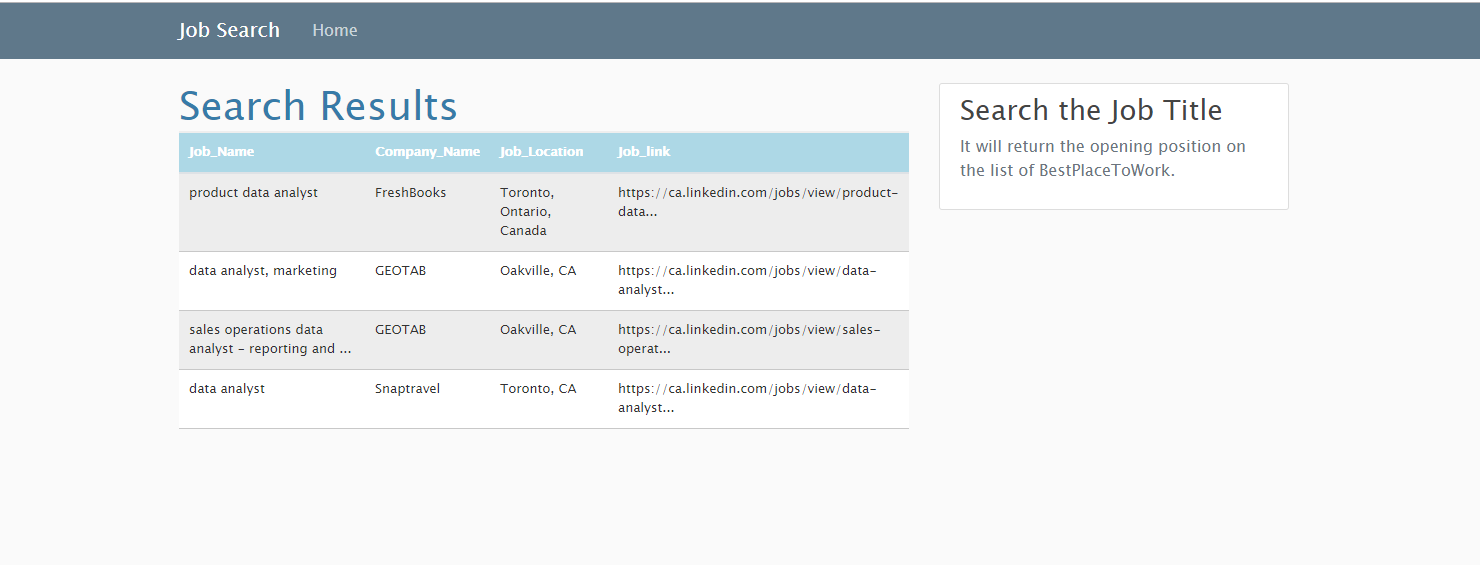
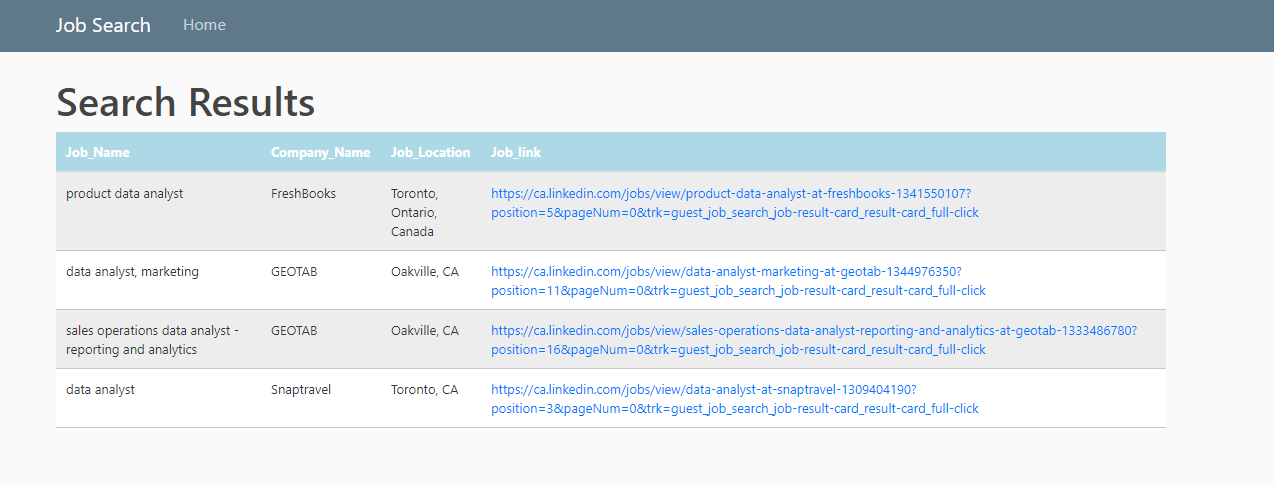
revised css file, html for each page, enable full display of link and hyperlink

diff --git a/web_scraping/templates/simple.html b/web_scraping/templates/simple.html
@@ -32,26 +32,8 @@
       </nav>
     </header>
     <main role="main" class="container">
-      <div class="row">
-        <div class="col-md-8">
-          {% block content %}{% endblock %}
-        </div>
-        <div class="col-md-4">
-          <div class="content-section">
-            <h3>Search the Job Title</h3>
-            <p class='text-muted'>It will return the opening position on the list of BestPlaceToWork.
-              <!--<ul class="list-group">-->
-                <!--<li class="list-group-item list-group-item-light">Latest Posts</li>-->
-                <!--<li class="list-group-item list-group-item-light">Announcements</li>-->
-                <!--<li class="list-group-item list-group-item-light">Calendars</li>-->
-                <!--<li class="list-group-item list-group-item-light">etc</li>-->
-              <!--</ul>-->
-            </p>
-          </div>
-        </div>
-      </div>
+      {% block content %}{% endblock %}
     </main>
-
     <script src="https://code.jquery.com/jquery-3.2.1.slim.min.js" integrity="sha384-KJ3o2DKtIkvYIK3UENzmM7KCkRr/rE9/Qpg6aAZGJwFDMVNA/GpGFF93hXpG5KkN" crossorigin="anonymous"></script>
     <script src="https://cdnjs.cloudflare.com/ajax/libs/popper.js/1.12.9/umd/popper.min.js" integrity="sha384-ApNbgh9B+Y1QKtv3Rn7W3mgPxhU9K/ScQsAP7hUibX39j7fakFPskvXusvfa0b4Q" crossorigin="anonymous"></script>
     <script src="https://maxcdn.bootstrapcdn.com/bootstrap/4.0.0/js/bootstrap.min.js" integrity="sha384-JZR6Spejh4U02d8jOt6vLEHfe/JQGiRRSQQxSfFWpi1MquVdAyjUar5+76PVCmYl" crossorigin="anonymous"></script>

diff --git a/web_scraping/templates/main.html b/web_scraping/templates/main.html
@@ -1,8 +1,20 @@
 {% extends "simple.html" %}
 {% block content %}
-    <h1>Home Page</h1>
-    <form method="POST">
-        <input name="text">
-        <input type="submit">
-    </form>
+ </form>
+      <div class="row">
+        <div class="col-md-8">
+            <h1>Home Page</h1>
+            <form method="POST">
+                <input name="text">
+                <input type="submit">
+            </form>
+        </div>
+        <div class="col-md-4">
+          <div class="content-section">
+            <h3>Search the Job Title</h3>
+            <p class='text-muted'>It will return the opening position on the list of BestPlaceToWork.
+            </p>
+          </div>
+        </div>
+      </div>
 {% endblock content %}

diff --git a/web_scraping/templates/job_list.html b/web_scraping/templates/job_list.html
@@ -4,5 +4,5 @@
     {% for table in tables %}
                {{ table|safe }}
     {% endfor %}
- <link rel="stylesheet" type="text/css" href="{{ url_for('static', filename='table.css')}}">
+<a rel="stylesheet" type="text/css" href="{{ url_for('static', filename='table.css')}}"></a>
 {% endblock content %}

diff --git a/web_scraping/app.py b/web_scraping/app.py
@@ -14,8 +14,10 @@ def main_post():
     df = pd.read_csv("%s/data/Job_search.csv" % main_path(), index_col=None)
     df['Job_Name'] = df['Job_Name'].str.lower()
     df = df[df['Job_Name'].str.contains(job_name)]
-    return render_template('job_list.html',  tables=[df.to_html(classes='table table-striped table-hover', index=False)])
-
+    df['Job_link'] = df['Job_link'].apply(lambda x: '<a href="{0}">{0}</a>'.format(x))
+    old_width = pd.get_option('display.max_colwidth')
+    pd.set_option('display.max_colwidth', -1)
+    return render_template('job_list.html',  tables=[df.to_html(classes='table table-striped table-hover',escape=False, index=False, justify='center')])
 
 if __name__ == '__main__':
     app.run(debug=True)

diff --git a/README.md b/README.md
@@ -46,4 +46,4 @@ python app.py
 
 1. Simulate/ Having the action of click on next page in Linkedin and then parse further pages (Perhaps use Linkedin API).
 2. Remove unrelated/incorrect company search results.
-3. Display full job link in searching results and enable the hyperlink functionality
+3. <del>Display full job link in searching results and enable the hyperlink functionality.</del>
